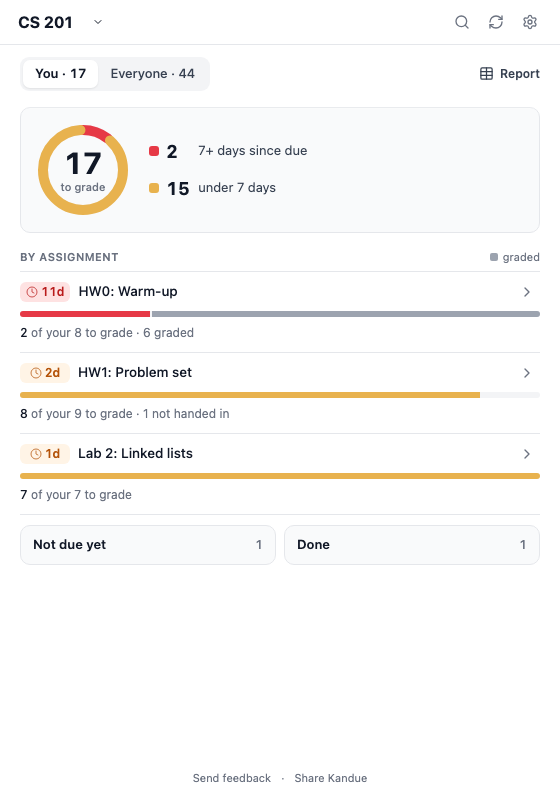
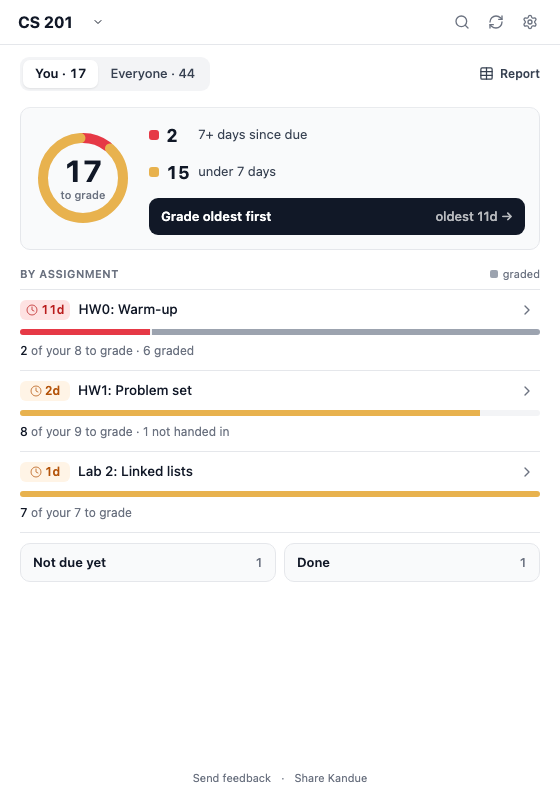
Grading screenshots show Grade oldest first

Changed region(s): [[0.0304, 0.1551, 0.9714, 0.7134], [0.5161, 0.6514, 0.6071, 0.7134]]

diff --git a/docs/index.html b/docs/index.html
@@ -542,7 +542,7 @@
                 <p class="sub">Fictional course, invented students: nothing in these captures comes from a real Canvas course.</p>
 
                 <div class="shot-feature">
-                    <div class="shot-media"><img src="ss-grading-queue.png?v=10" width="560" height="806" alt="The Kandue for Graders queue: a You · 17 / Everyone · 44 switch beside the Report link, 17 to grade in a ring split into 2 at 7+ days since due and 15 under 7 days, then rows for HW0, HW1 and Lab 2, each led by its longest wait (11 days, in red, for HW0), with a bar and a line such as &quot;2 of your 8 to grade · 6 graded&quot;, and Not due yet and Done buttons under the list" loading="lazy" decoding="async"></div>
+                    <div class="shot-media"><img src="ss-grading-queue.png?v=11" width="560" height="806" alt="The Kandue for Graders queue: a You · 17 / Everyone · 44 switch beside the Report link, 17 to grade in a ring split into 2 at 7+ days since due and 15 under 7 days with a Grade oldest first button, then rows for HW0, HW1 and Lab 2, each led by its longest wait (11 days, in red, for HW0), with a bar and a line such as &quot;2 of your 8 to grade · 6 graded&quot;, and Not due yet and Done buttons under the list" loading="lazy" decoding="async"></div>
                     <div class="shot-copy">
                         <h4>Who is waiting on you</h4>
                         <p>Every assignment with students of yours still to grade, the longest wait at the top. Each row says how long the first of your students has waited and how many of them are still to grade, with a bar for your block.</p>
@@ -551,12 +551,12 @@
 
                 <div class="shot-grid">
                     <div class="shot">
-                        <img src="ss-grading-work.png?v=10" width="560" height="820" alt="The worklist for HW0: Warm-up, due 11 days ago, with the grader's median score against the other graders', Rosa Mendes and Nia Okafor marked To grade, and the students around them already scored 4 or 5 out of 5" loading="lazy" decoding="async">
+                        <img src="ss-grading-work.png?v=11" width="560" height="820" alt="The worklist for HW0: Warm-up, due 11 days ago, with the grader's median score against the other graders', Rosa Mendes and Nia Okafor marked To grade, and the students around them already scored 4 or 5 out of 5" loading="lazy" decoding="async">
                         <h4>The worklist for your block</h4>
                         <p>To grade, graded with the score, resubmitted, late, missing or excused, each student one click from SpeedGrader.</p>
                     </div>
                     <div class="shot">
-                        <img src="ss-grading-split.png?v=11" width="560" height="920" alt="Kandue for Graders settings showing who grades whom: three TAs with their student ranges, the signed-in grader's own block in bold, and a note that 22 of 22 graded rows match this split" loading="lazy" decoding="async">
+                        <img src="ss-grading-split.png?v=12" width="560" height="920" alt="Kandue for Graders settings showing who grades whom: three TAs with their student ranges, the signed-in grader's own block in bold, and a note that 22 of 22 graded rows match this split" loading="lazy" decoding="async">
                         <h4>Who grades whom, read back</h4>
                         <p>The split every TA is actually using, checked against every grade already entered, with the disagreements named.</p>
                     </div>
